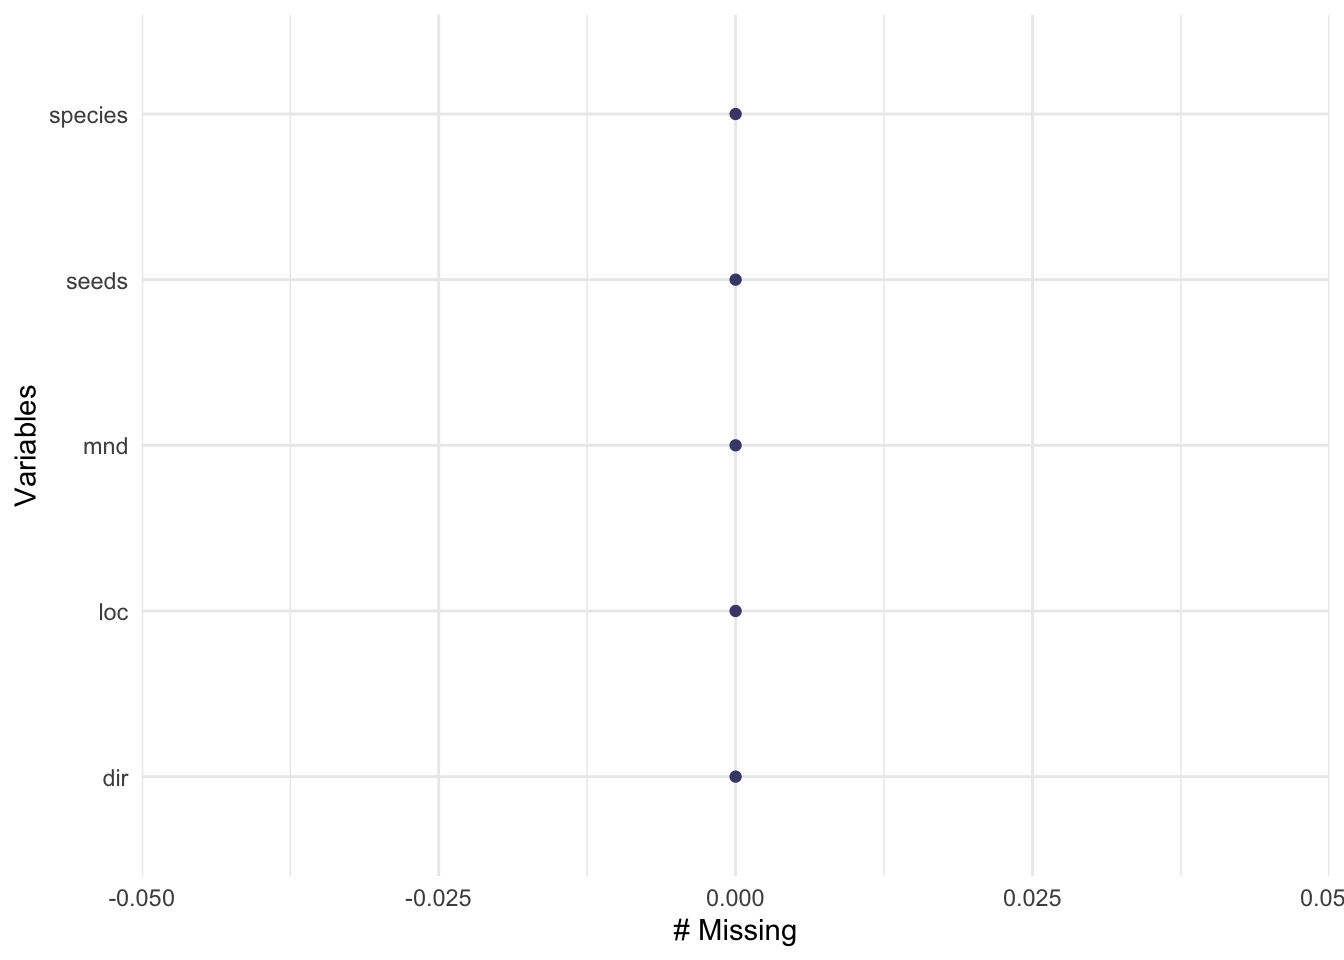
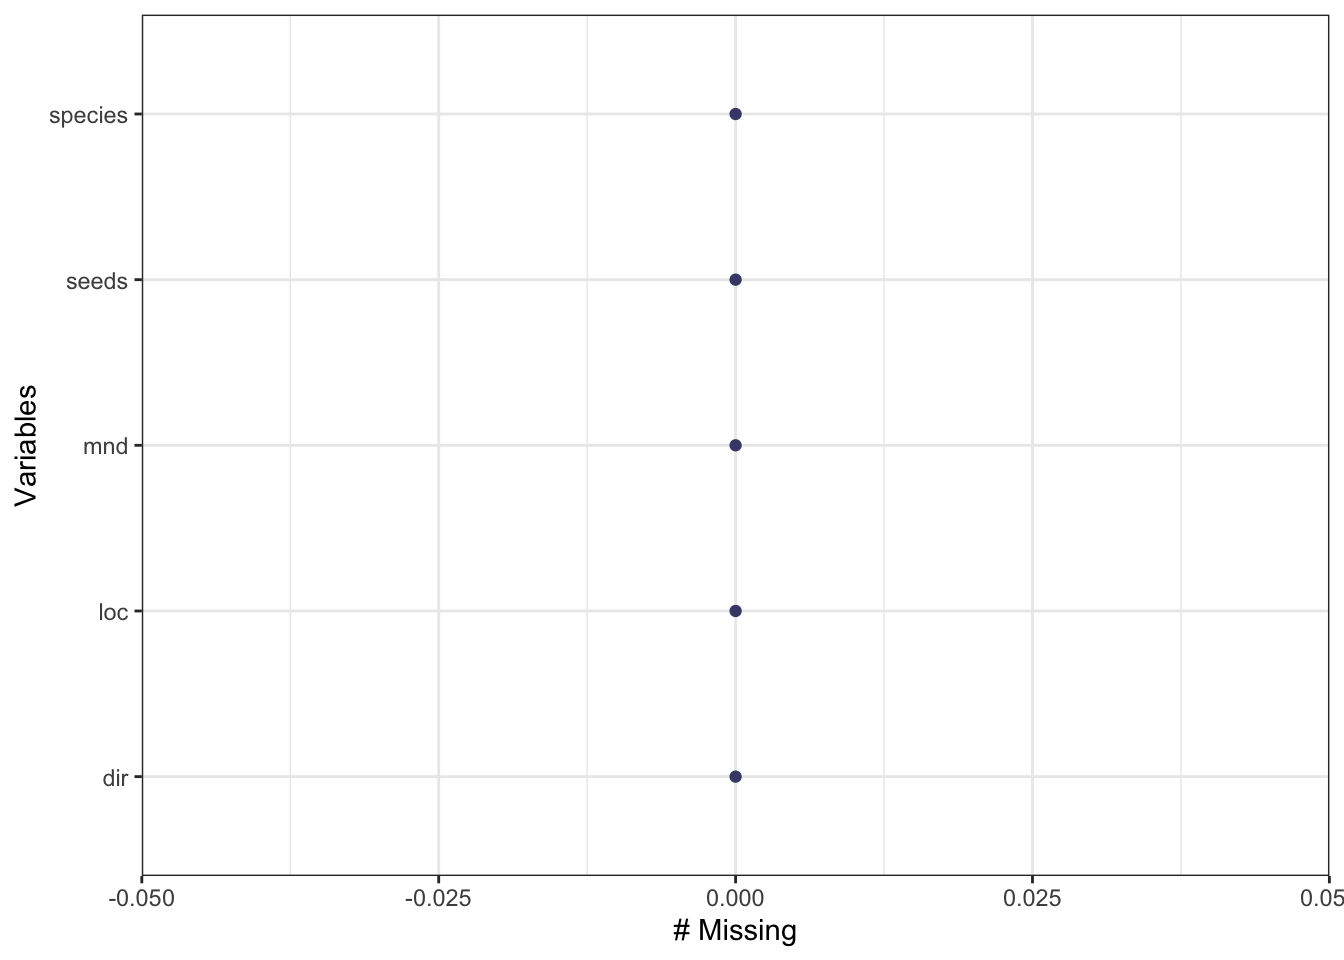
problem 1 analysis complete

diff --git a/code/final.html b/code/final.html
@@ -158,7 +158,8 @@ pre > code.sourceCode > span > a:first-child::before { text-decoration: underlin
 <span id="cb1-5"><a href="#cb1-5" aria-hidden="true" tabindex="-1"></a><span class="fu">library</span>(GGally)</span>
 <span id="cb1-6"><a href="#cb1-6" aria-hidden="true" tabindex="-1"></a><span class="fu">library</span>(lmtest)</span>
 <span id="cb1-7"><a href="#cb1-7" aria-hidden="true" tabindex="-1"></a><span class="fu">library</span>(glmmTMB)</span>
-<span id="cb1-8"><a href="#cb1-8" aria-hidden="true" tabindex="-1"></a><span class="fu">library</span>(DHARMa)</span></code><button title="Copy to Clipboard" class="code-copy-button"><i class="bi"></i></button></pre></div>
+<span id="cb1-8"><a href="#cb1-8" aria-hidden="true" tabindex="-1"></a><span class="fu">library</span>(DHARMa)</span>
+<span id="cb1-9"><a href="#cb1-9" aria-hidden="true" tabindex="-1"></a><span class="fu">library</span>(rstatix)</span></code><button title="Copy to Clipboard" class="code-copy-button"><i class="bi"></i></button></pre></div>
 </details>
 </div>
 <div class="cell">
@@ -177,7 +178,8 @@ pre > code.sourceCode > span > a:first-child::before { text-decoration: underlin
 <div class="cell">
 <details>
 <summary>Code</summary>
-<div class="sourceCode cell-code" id="cb3"><pre class="sourceCode r code-with-copy"><code class="sourceCode r"><span id="cb3-1"><a href="#cb3-1" aria-hidden="true" tabindex="-1"></a><span class="fu">gg_miss_var</span>(rat)</span></code><button title="Copy to Clipboard" class="code-copy-button"><i class="bi"></i></button></pre></div>
+<div class="sourceCode cell-code" id="cb3"><pre class="sourceCode r code-with-copy"><code class="sourceCode r"><span id="cb3-1"><a href="#cb3-1" aria-hidden="true" tabindex="-1"></a><span class="fu">gg_miss_var</span>(rat) <span class="sc">+</span></span>
+<span id="cb3-2"><a href="#cb3-2" aria-hidden="true" tabindex="-1"></a>  <span class="fu">theme_bw</span>() </span></code><button title="Copy to Clipboard" class="code-copy-button"><i class="bi"></i></button></pre></div>
 </details>
 <div class="cell-output-display">
 <p><img src="final_files/figure-html/unnamed-chunk-3-1.png" class="img-fluid" width="672"></p>
@@ -197,6 +199,36 @@ pre > code.sourceCode > span > a:first-child::before { text-decoration: underlin
 </div>
 </div>
 <p><strong>Figure 2. Exploratory data visualization.</strong> There seems to be a correlation between mound location and number of seeds, further analysis should be conducted.</p>
+<div class="cell">
+<details>
+<summary>Code</summary>
+<div class="sourceCode cell-code" id="cb5"><pre class="sourceCode r code-with-copy"><code class="sourceCode r"><span id="cb5-1"><a href="#cb5-1" aria-hidden="true" tabindex="-1"></a><span class="co"># Kruskal-Wallis rank sum test</span></span>
+<span id="cb5-2"><a href="#cb5-2" aria-hidden="true" tabindex="-1"></a><span class="fu">kruskal.test</span>(seeds <span class="sc">~</span> loc, <span class="at">data =</span> rat)</span></code><button title="Copy to Clipboard" class="code-copy-button"><i class="bi"></i></button></pre></div>
+</details>
+<div class="cell-output cell-output-stdout">
+<pre><code>
+    Kruskal-Wallis rank sum test
+
+data:  seeds by loc
+Kruskal-Wallis chi-squared = 21.932, df = 3, p-value = 6.738e-05</code></pre>
+</div>
+</div>
+<p><strong>Table 1. Kruskal-Wallis rank sum test</strong> At least two seed counts differ between the mound locations.</p>
+<div class="cell">
+<details>
+<summary>Code</summary>
+<div class="sourceCode cell-code" id="cb7"><pre class="sourceCode r code-with-copy"><code class="sourceCode r"><span id="cb7-1"><a href="#cb7-1" aria-hidden="true" tabindex="-1"></a><span class="co"># quantify the effect </span></span>
+<span id="cb7-2"><a href="#cb7-2" aria-hidden="true" tabindex="-1"></a>rat <span class="sc">%&gt;%</span> </span>
+<span id="cb7-3"><a href="#cb7-3" aria-hidden="true" tabindex="-1"></a>  <span class="fu">kruskal_effsize</span>(seeds <span class="sc">~</span> loc)</span></code><button title="Copy to Clipboard" class="code-copy-button"><i class="bi"></i></button></pre></div>
+</details>
+<div class="cell-output cell-output-stdout">
+<pre><code># A tibble: 1 × 5
+  .y.       n effsize method  magnitude
+* &lt;chr&gt; &lt;int&gt;   &lt;dbl&gt; &lt;chr&gt;   &lt;ord&gt;    
+1 seeds  1560  0.0122 eta2[H] small    </code></pre>
+</div>
+</div>
+<p><strong>Table 2. Effect size for Kruskal Wallis.</strong> The magnitude of the effect is small.</p>
 </section>
 </section>
 <section id="results" class="level2">
